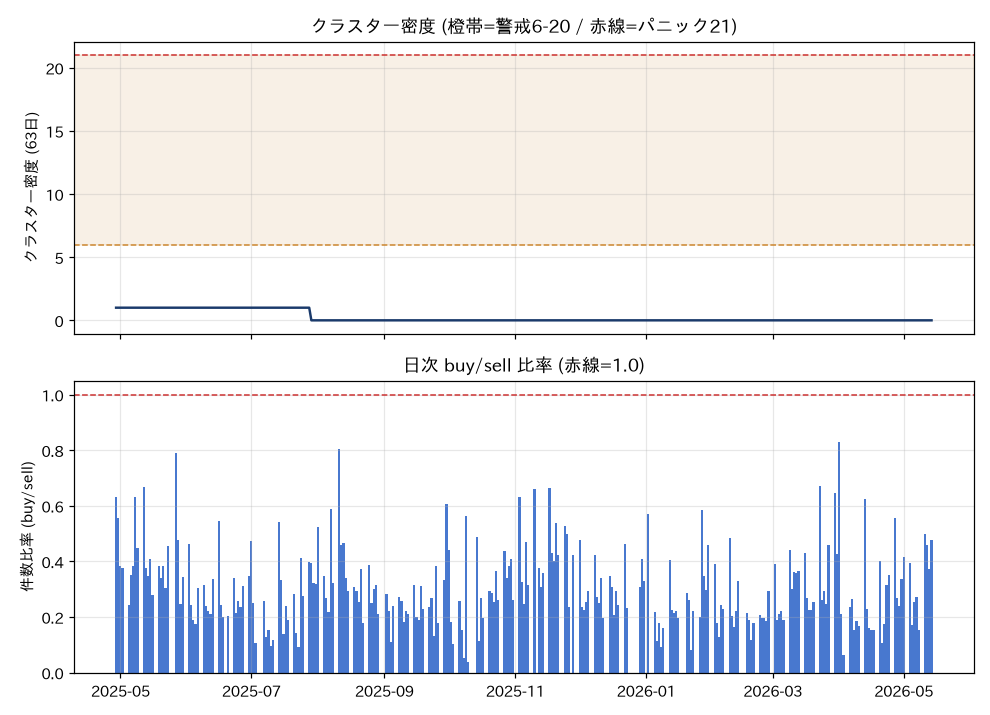
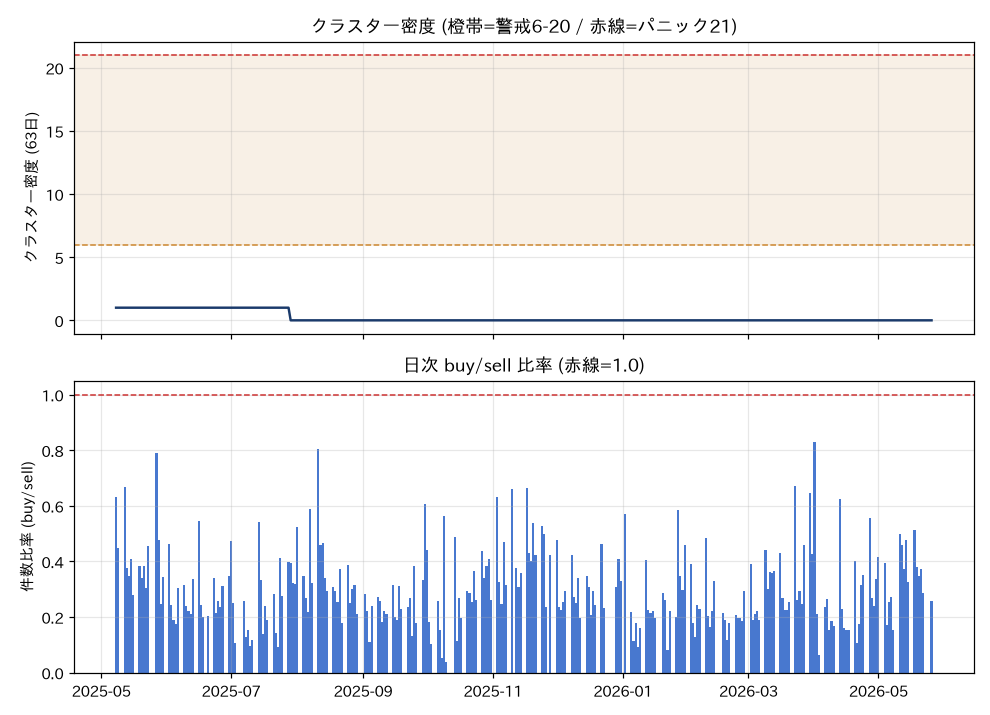
auto update 2026-06-12

Changed region(s): [[0.0606, 0.6154, 0.9394, 0.9846], [0.2727, 0.4308, 0.3333, 0.4615]]

diff --git a/docs/index.html b/docs/index.html
@@ -18,7 +18,7 @@
  footer{font-size:10.5px;color:#777;padding:14px;line-height:1.6}
 </style></head><body>
 <header><h1>Market Monitor — インサイダー密度ステート</h1>
-<div class="sub">最終更新: 2026-06-12 14:59 JST (05:59 UTC) / データ: SEC EDGAR + Yahoo/FRED</div></header>
+<div class="sub">最終更新: 2026-06-12 16:11 JST (07:11 UTC) / データ: SEC EDGAR + Yahoo/FRED</div></header>
 <main>
 <h2 style="font-size:14px;margin:4px 0 8px;color:#1a3a6b">📉 底側 — インサイダー密度ステート</h2>
 
@@ -31,9 +31,9 @@
     <div class="card"><div class="lbl">クラスター密度</div>
       <div class="big">0 <span class="unit">/63日</span></div>
       <div class="small">閾値: 警戒6 / パニック21</div></div>
-    <div class="card"><div class="lbl">本日の比率 (2026-05-14)</div>
-      <div class="big">0.478</div>
-      <div class="small">buy 152 / sell 318</div></div>
+    <div class="card"><div class="lbl">本日の比率 (2026-05-26)</div>
+      <div class="big">0.259</div>
+      <div class="small">buy 110 / sell 425</div></div>
     <div class="card"><div class="lbl">S&amp;P 500 DD (2026-06-11)</div>
       <div class="big">-2.8%</div>
       <div class="small">終値 7,394 / 252日高値比</div></div>
@@ -44,12 +44,12 @@
   <div class="grid">
     <div class="card"><div class="lbl">HOクラスター判定</div>
       <div class="big" style="color:#2a7d4f">Lv0 通常</div>
-      <div class="small">3M:0 / 6M:6 / 12M:11<br>
+      <div class="small">3M:1 / 6M:7 / 12M:12<br>
       閾値(合算): Watch 6M≧8 / Warning 3M≧10 / Alarm 3M≧16</div></div></div>
   <div class="warn" style="background:#eef2f8;border-color:#aabbd4">
   <b>V1モデルの限界(必読)</b>: 35点境界の較正は実効2イベント(Dotcom/GFC)に依拠。HB過去分は目視集約シード(定義混成)、
   2026-06-12以降は自前ルール(2.8%・NYSE+Nasdaq合算・WSJ)で接続点に定義不連続あり。点推定ではなく方向性として読むこと。</div>
-<div class="warn"><b>⚠ データ注意事項</b><ul><li>キャッチアップ中: 残り約27日分 (Actionsを再実行すると進みます)</li><li>インサイダーデータがS&P 500より28日遅れています(EDGARキャッチアップ中は正常)</li><li>AIAE取得失敗 (HTTPSConnectionPool(host='fred.stlouisfed.org', port=443): Read timed out. (read timeout=60)) — 前回キャッシュを使用</li><li>WSJブレッドス取得失敗 (WSJ応答の構造が想定外 (ログの[診断]行参照)) — 本日のHO判定スキップ</li><li>FINRA MD/M2取得失敗 (403 Client Error: Forbidden for url: https://www.finra.org/investors/learn-to-invest/advanced-investing/margin-statistics) — キャッシュ使用 (継続する場合は data/mdm2.csv に月1回手動追記)</li></ul></div>
+<div class="warn"><b>⚠ データ注意事項</b><ul><li>キャッチアップ中: 残り約15日分 (Actionsを再実行すると進みます)</li><li>インサイダーデータがS&P 500より16日遅れています(EDGARキャッチアップ中は正常)</li><li>AIAE取得失敗 (HTTPSConnectionPool(host='fred.stlouisfed.org', port=443): Read timed out. (read timeout=60)) — 前回キャッシュを使用</li><li>McClellan蓄積中 (1/39日) — HO判定は3条件版(暫定)</li><li>FINRA MD/M2取得失敗 (403 Client Error: Forbidden for url: https://www.finra.org/investors/learn-to-invest/advanced-investing/margin-statistics) — キャッシュ使用 (継続する場合は data/mdm2.csv に月1回手動追記)</li></ul></div>
 <img src="chart_insider.png" alt="insider">
 <img src="chart_spx.png" alt="spx">
 <img src="chart_aiae.png" alt="aiae" onerror="this.style.display='none'">
